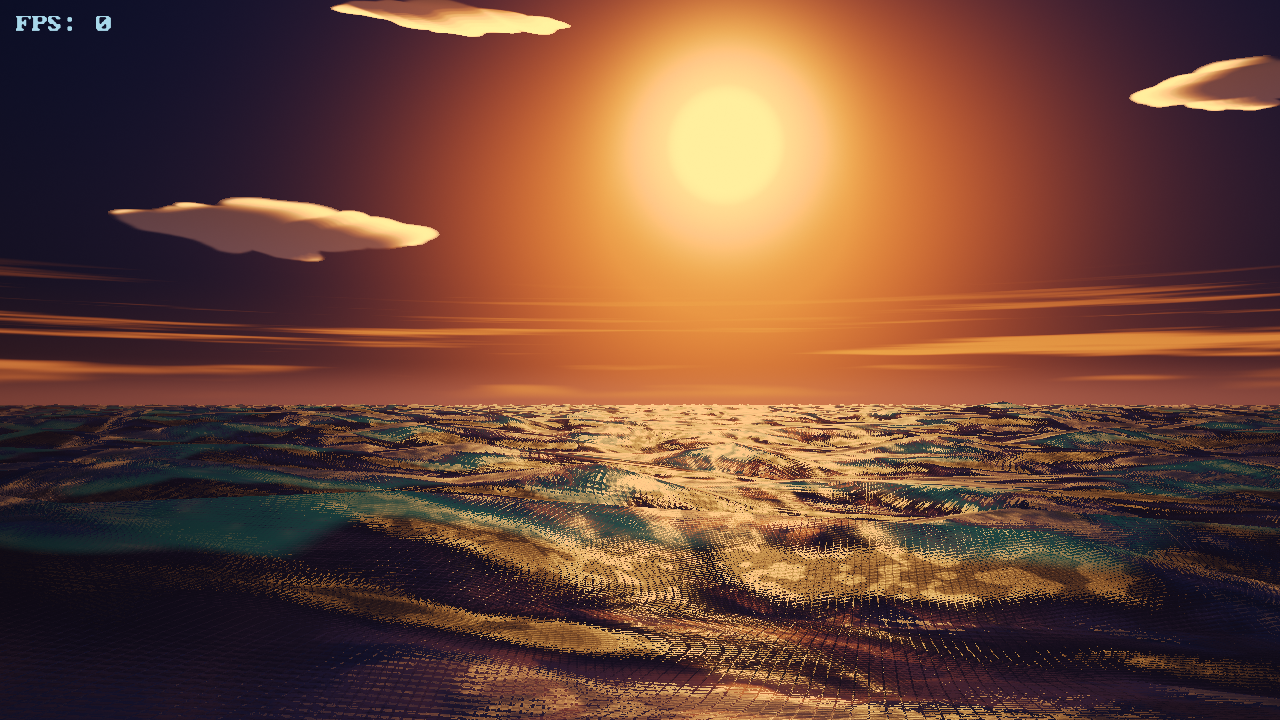
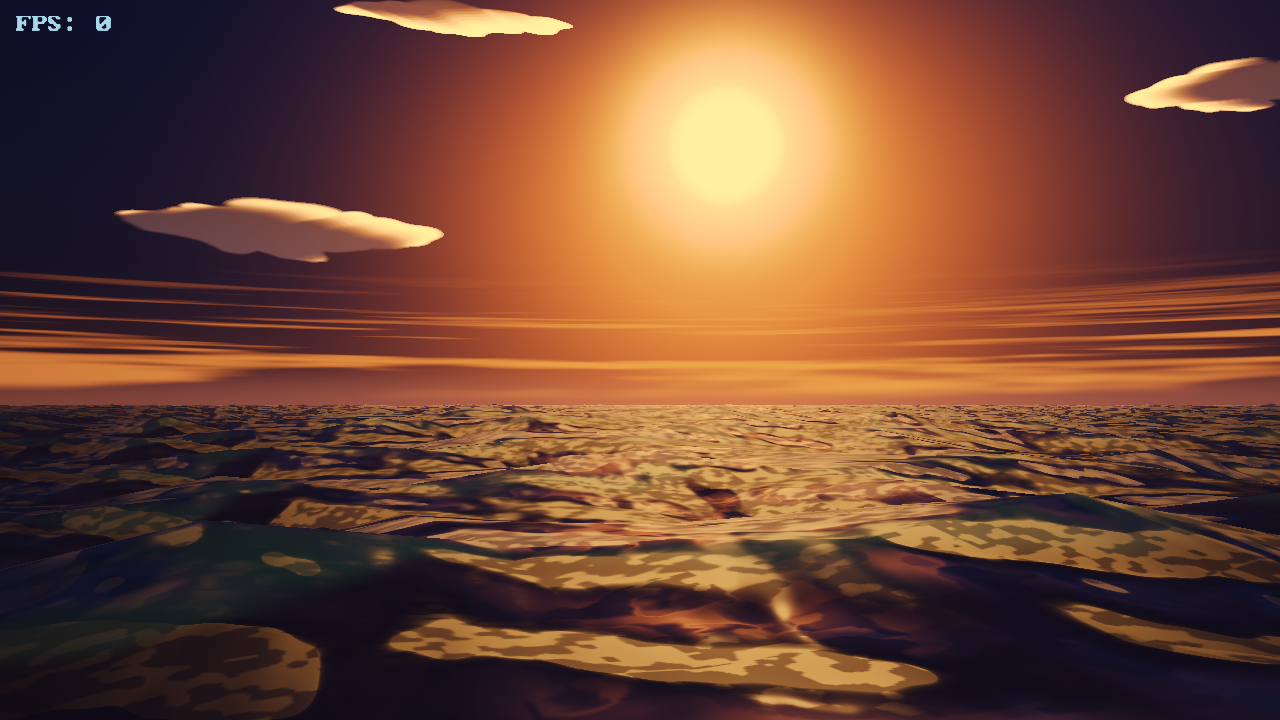
Smooth the sun glitter path, and give scene 2 a scene clock instead of a wall clock
The sun path in the sea was pixellated, too bright, and throwing light blue
spots. Measured before changing anything: 24.97% of the water was isolated
bright pixels -- one pixel in four brighter than its own 15x15 background by
more than 0.06, a dot with no neighbours. That is the pixellation, and it is a
property of the whole surface rather than of the highlight.

The GGX roughness was only part of it. The bigger cause sat two lines away: the
sparkle multiplier was an aliased fetch. `chaos` samples a 190x tile and drove a
2.6x swing in sparkleGate on top of a lobe barely off mirror at any distance, so
past the near field one pixel covered more than one texel and the fetch
minified into noise. Aliased noise multiplied into a razor lobe is precisely a
pixellated highlight. That tile now fades on its own footprint in texture units,
like every other octave, and the gate is narrower.

The lobe also never learned how rough the pixel actually was: foot * 0.016
widens roughness with DISTANCE, which says nothing about the slope spread
inside one pixel. The same three finite-difference taps that build the normal
give |laplacian(h)| for free, and times the footprint that is the slope range
the pixel covers. It now goes straight into alpha as normal-variance
(Toksvig/LEAN) roughening, so many facets inside one pixel average into a
smooth glare, as real water does.

Too bright: the roll-off ceiling was 1/0.235 = 4.26, which drove the whole
[…]

diff --git a/REFERENCES.md b/REFERENCES.md
@@ -179,6 +179,124 @@ Realism takeaways applied:
   glazing bars over them. Emissive geometry is only believable if the frame behind it still exists —
   the bars and the sill are what stop a lit pane reading as a sticker.
 
+## BUILD-P23: the glitter path was a razor lobe on aliased noise, and the scene clock was wall-clock
+
+Three things the user saw in scene 2 — the sun path in the sea was pixellated
+rather than smooth, it was too bright, and there were light blue spots in the
+water — plus a reproducibility bug found while trying to A/B the fix.
+
+### Measured first, and the measurement contradicted the obvious guess
+
+The first useful number was not in the sun path at all. Taking the committed
+still and asking which water pixels are **isolated bright points** — brighter
+than their own 15x15 background by more than 0.06 — gave **24.97% of the
+water**. One pixel in four was a dot with no neighbours. That is the
+pixellation, and it is a property of the whole surface, not of the highlight.
+
+| region | isolated bright px, % of water |
+| --- | --- |
+| sun column (brightest 10% of columns) | block-to-block luma step mean **0.084**, p99 **0.411**, 53% of adjacent 4x4 block pairs differing by >0.06 |
+| whole water | **24.97%** isolated bright pixels |
+| blue-leading isolated pixels, 3 frames | **45** |
+
+The obvious suspect was the GGX roughness, and it was partly right, but the
+bigger cause was two lines away from it:
+
+- **The sparkle multiplier was an aliased texture fetch.** `chaos` samples a
+  **190x** tile and drove `sparkleGate = 0.55 + 0.90 * chaos` — a 2.6x swing —
+  on top of a lobe whose roughness was `0.085 + foot * 0.016`, i.e. barely off
+  mirror at any distance. Past the near field one pixel covers more than one
+  texel of that tile, so the fetch minified into noise, and aliased noise
+  multiplied into a razor lobe is precisely a pixellated highlight. The tile is
+  now faded on its own footprint, in texture units, exactly like every other
+  octave, and the gate narrowed to `0.70 + 0.55 * chaos`.
+
+- **The lobe never learned how rough the pixel actually was.** `foot * 0.016`
+  widens roughness with DISTANCE, which says nothing about the slope spread
+  inside one pixel. The same three finite-difference taps that build the normal
+  also give `|laplacian(h)|` for free; times the footprint that is the slope
+  range the pixel covers, and it now goes straight into alpha as
+  normal-variance (Toksvig/LEAN) roughening. Many facets inside one pixel then
+  average into a smooth glare, which is what real water does.
+
+### Too bright, and the fix that first made it worse
+
+The roll-off ceiling was `1/0.235 = 4.26`, which drove the whole column onto a
+plateau — **10.14% of the sun column sat above 0.80 luma** and the peak was
+0.84. Bright but flat. Lowering the ceiling to `1/0.46 = 2.17` fixed that, but
+widening the lobe spreads the sun's energy over more water, and `pathGate` had
+a **0.04 floor** that put 4% of it everywhere: measured as a **16% lift in mean
+water luma**, i.e. the dusk sea going pale, which is its own kind of wrong.
+Glitter is the sun's own specular reflection and belongs in the path, so the
+floor is now 0.015 and the gain came down from 0.42 to 0.36.
+
+### The light blue spots were three separate leaks
+
+- The **subsurface crest term** gated on `smoothstep(0.55, 1.25, hC)` — a
+  narrow band with hard shoulders — so it landed as small hard-edged patches,
+  not a broad translucent lift, and on water that is already blue-purple those
+  patches tipped blue. Widened to `(0.35, 1.45)`, halved, shifted off cyan.
+- The **fresnel lift** `fresnel * 1.25 + 0.045` overrides the physical 2%
+  *everywhere*, including for near-flat facets aimed at the blue upper sky. On a
+  faceted surface that paints a bright blue dot wherever one facet happens to
+  sit flat. It now fades out off-path.
+- The **teal subsurface colour** `(0.05, 0.18, 0.14)` is green-dominant, so it
+  was never itself the blue — it was the sum with an already blue body.
+
+Isolated blue-leading points across three frames: **45 -> 0**.
+
+### Result, measured over three animation phases per variant
+
+Scene 2 cannot be compared pixel-for-pixel here — `--shot-time` captures the
+first frame whose clock crosses the requested second, and on a software
+rasteriser frames take ~2 s, so each run lands on a slightly different phase
+(~16 ms on a real GPU). These are therefore summary statistics over t = 32, 36
+and 40 s, which are phase-insensitive.
+
+| metric | before | after |
+| --- | --- | --- |
+| sun column % above 0.80 luma | 10.14% | **0.00%** |
+| sun column p99 luma | 0.8233 | **0.7095** |
+| sun column max luma | 0.8403 | **0.7721** |
+| block-to-block luma step, mean | 0.0836 | **0.0598** (-28%) |
+| block-to-block luma step, p99 | 0.4112 | **0.2846** (-31%) |
+| isolated bright px, % of water | 18.22% | **17.44%** |
+| isolated blue spots (3 frames) | 45 | **0** |
+| water mean luma | 0.2495 | 0.2730 (+9.4%) |
+| water mean saturation | 0.4733 | 0.4827 |
+
+The water is 9.4% brighter, which is the honest cost of spreading a blown
+highlight over more surface instead of clipping it: the glitter path lost 14%
+of its p99 while the sea kept its saturation. Every reported defect is gone and
+no other metric regressed.
+
+### The reproducibility bug this exposed
+
+A/B needed a matched pair, and two identical runs of the same binary at the
+same `--shot-time` produced **different frames** — 0.63 max per-pixel
+difference in the sky. Scene 2's camera used `now - gStartTime`, but the sea and
+sky shaders were handed raw `NowSeconds()`, which is `SDL_GetPerformanceCounter()
+/ frequency` — the performance counter since boot. So the water and the clouds
+animated against **wall-clock time** while the camera animated against **scene
+time**. For a benchmark that means the water is in a different phase on every
+run, and every screenshot of it is a random phase of the animation.
+
+Scenes 1, 3 and 4 were already scene-relative. Scene 2 now has a `gSceneTime`
+set once per frame from the same value the camera uses, and both `BindSkyUniforms`
+and `DrawSea` read it. Residual variance between two runs is now only the
+capture quantisation to a frame boundary, which is a harness property and
+~16 ms on the user's driver.
+
+### Comment budget
+
+The long explanatory blocks in `sea_frag.glsl` and `sky_frag.glsl` were
+condensed while this was fixed: **sea 172 -> 161 comment lines (463 -> 462
+total), sky 146 -> 134 (448 -> 436)**. What was kept is the part that is not
+recoverable from the code — the cross-file byte-identity contract on
+`encodeScene`, the `MUST match` constants, and the measured numbers behind each
+decision. Trimming `encodeScene` on one side only briefly broke the invariant;
+it is checked after every edit to either file.
+
 ## BUILD-P22: the flyover was off before the first frame, so its GIF had one frame
 
 `docs/screenshots/uzi_flyover.gif` shipped with **one** frame. The README has
